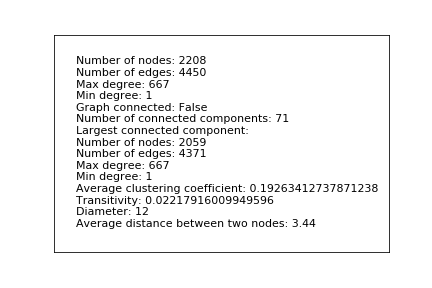
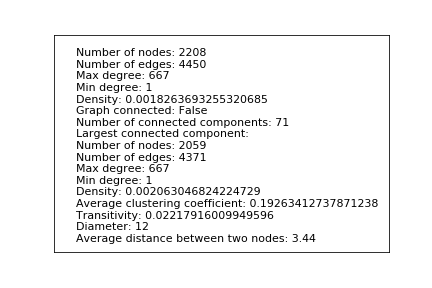
Small sna fix

Changed region(s): [[0.1806, 0.1562, 0.8727, 0.8438]]

diff --git a/scripts/sna.py b/scripts/sna.py
@@ -119,8 +119,8 @@ def general_analysis(graph, subgraph, name):
     lines.append(f'Average distance between two nodes: {nx.average_shortest_path_length(graph):.2f}')
     info = '\n'.join(lines)
     fig = plt.figure()
-    plt.axis([0, 15, 0, 15])
-    plt.text(1, 13.5, info, fontsize=11, ha='left', va='top', wrap=True)
+    plt.axis([0, 15, 0, 16])
+    plt.text(1, 15, info, fontsize=11, ha='left', va='top', wrap=True)
     plt.xticks([])
     plt.yticks([])
     plt.savefig(f'graphs\\{name}_graph_info.png')
@@ -133,6 +133,7 @@ def print_general_info(graph, lines):
     degrees = [val for (node, val) in graph.degree()]
     lines.append(f'Max degree: {np.max(degrees)}')
     lines.append(f'Min degree: {np.min(degrees)}')
+    lines.append(f'Density: {nx.density(graph)}')
 
 
 def centrality(graph, name):
